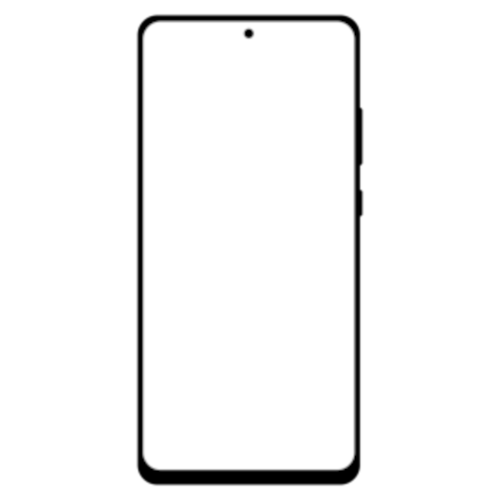
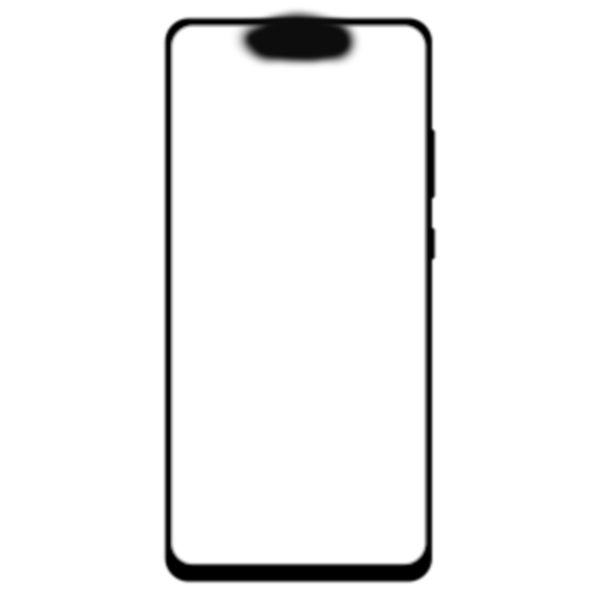
Site finalizado, ver final

Changed region(s): [[0.39, 0.0, 0.6, 0.12]]

diff --git a/style_dois.css b/style_dois.css
@@ -1,0 +1,78 @@
+@charset "utf-8";
+
+
+
+*{
+    margin: 0px;
+    padding: 0px; 
+    font-family: Arial, Helvetica, sans-serif;
+}
+::-webkit-scrollbar{
+    width: 0px;
+    height: 0px;
+}
+img{
+    width: 86vw;
+    border-radius: 20px 20px 30px 30px;
+    
+}
+#insta{
+    width: 79vw;
+    text-align: center;
+    background-color: blueviolet;
+    color: white;
+    display: block;
+    text-decoration: none;
+    padding: 10px;
+    border-radius: 0px 0px 20px 20px;
+    
+   
+}
+#insta:hover{
+ background-color: darkviolet;
+}
+
+#linkedin{
+    width: 79vw;
+    text-align: center;
+    background-color: #0a66c2;
+    color: white;
+    display: block;
+    text-decoration: none;
+    padding: 10px;
+    border-radius: 0px 0px 20px 20px;
+}
+
+#linkedin:hover{
+    background-color: #0a26c2;
+}
+
+#hub{
+    width: 79vw;
+    text-align: center;
+    background-color: #159234;
+    color: white;
+    display: block;
+    text-decoration: none;
+    padding: 10px;
+    border-radius: 0px 0px 20px 20px;
+}
+
+#hub:hover{
+    background-color: #12b93c;
+}
+
+#tt{
+    width: 79vw;
+    text-align: center;
+    background-color: #58aee7;
+    color: white;
+    display: block;
+    text-decoration: none;
+    padding: 10px;
+    border-radius: 0px 0px 20px 20px;
+}
+
+#tt:hover{
+    background-color: #2496e2;
+}

diff --git a/Redes_Sociais.html b/Redes_Sociais.html
@@ -15,12 +15,23 @@
         
         
         <section id="celular">
-       <iframe src="pacote-d013/imagens/fundo_tela_home.png" frameborder="0" name="inicial" id="tela"></iframe>
-
+       <iframe src="pacote-d013/imagens/fundo_tela_home.png" frameborder="0" name="inicial" id="tela">
+        Seu navegador não suporta
+       </iframe>
         </section>
         
         <section id="botoes">
+            <a href="tela_inicial.html" target="inicial"> <img src="pacote-d013/imagens/logo-home.jpg" alt="home"></a>
 
+            <a href="github.html" target="inicial"> <img src="pacote-d013/imagens/logo-github.jpg" alt="github"></a>
+
+            <a href="insta.html" target="inicial"> <img src="pacote-d013/imagens/logo-instagram.jpg" alt="insta"></a>
+
+            <a href="twitter.html" target="inicial"> <img src="pacote-d013/imagens/logo-twitter.jpg" alt="logo-twitter"></a>
+
+            <a href="linkedin.html" target="inicial"> <img src="pacote-d013/imagens/logo_linkedIn.jpg" alt="linkedin"></a>
+            
+           
         </section>
     </main>
    

diff --git a/style.css b/style.css
@@ -36,10 +36,33 @@ h1{
 #celular{
   
     position: absolute;
-    top: 50%;
+    top: 55%;
     left: 50%;
     transform: translate(-50%, -50%);
     height: 627px;
     width: 600px;
-    background: url(pacote-d013/imagens/android.png) no-repeat;
+    background: url(pacote-d013/imagens/smartphone-png.png) no-repeat;
 }
+#botoes{
+   text-align: center;
+}
+
+#botoes img{
+    width: 50px;
+    margin: 10px;
+    border-radius: 25px;
+    box-shadow: 2px 2px 5px rgba(0, 0, 0, 0.479);
+    box-sizing: border-box;
+}
+
+#botoes img:hover{
+    background-color:rgba(240, 248, 255, 0.288);
+    color:rgba(240, 248, 255, 0.322);
+    padding: 4px 6px;
+    transition: 0.3s;
+
+
+}
+
+
+

diff --git a/tela_inicial.html b/tela_inicial.html
@@ -1,8 +1,8 @@
 <!DOCTYPE html>
-<html lang="en">
+<html lang="pt-br">
 <head>
     <meta charset="UTF-8">
-    <title>Document</title>
+    <title>tela home</title>
 </head>
 <style>
     *{
@@ -10,9 +10,11 @@
         padding: 0px;
     }
     body{
+       
         width: 100vw;
         height: 100vh;
-        background: black url(pacote-d013/imagens/fundo_tela.png) no-repeat top center;
+        background: url(pacote-d013/imagens/fundo_tela_home.png) no-repeat;
+        
 
     }
 </style>

diff --git a/linkedin.html b/linkedin.html
@@ -1,0 +1,12 @@
+<!DOCTYPE html>
+<html lang="pt-br">
+<head>
+    <meta charset="UTF-8">
+    <title>linkedin</title>
+    <link rel="stylesheet" href="style_dois.css">
+</head>
+<body>
+    <img src="pacote-d013/imagens/fundo_linkedin.jpg" alt="tela_linkedin">
+    <a href="https://www.linkedin.com/in/alexsandro-eduardo-755258204/" target="_blank" name="linkedin" id="linkedin">VER PERFIL</a>
+</body>
+</html>

diff --git a/insta.html b/insta.html
@@ -1,0 +1,12 @@
+<!DOCTYPE html>
+<html lang="pt-br">
+<head>
+    <meta charset="UTF-8">
+    <title>insta</title>
+    <link rel="stylesheet" href="style_dois.css">
+</head>
+<body>
+    <img src="pacote-d013/imagens/print.jpg" alt="insta">
+    <a href="https://www.instagram.com/alex_edu81/" target="_blank" name="insta" id="insta">VER PERFIL</a>
+</body>
+</html>

diff --git a/github.html b/github.html
@@ -1,0 +1,12 @@
+<!DOCTYPE html>
+<html lang="pt-br">
+<head>
+    <meta charset="UTF-8">
+    <title>github</title>
+    <link rel="stylesheet" href="style_dois.css">
+</head>
+<body>
+    <img src="pacote-d013/imagens/fundo_github.jpg" alt="">
+    <a href="https://github.com/Alexsandro08" target="_blank" name="hub" id="hub">VER PERFIL</a>
+</body>
+</html>

diff --git a/twitter.html b/twitter.html
@@ -1,0 +1,12 @@
+<!DOCTYPE html>
+<html lang="pt-br">
+<head>
+    <meta charset="UTF-8">
+    <title>twitter</title>
+    <link rel="stylesheet" href="style_dois.css">
+</head>
+<body>
+    <img src="pacote-d013/imagens/fundo_twitter.jpg" alt="">
+    <a href="https://twitter.com/AleekEdu" target="_blank" name="tt" id="tt">VER PERFIL</a>
+</body>
+</html>
